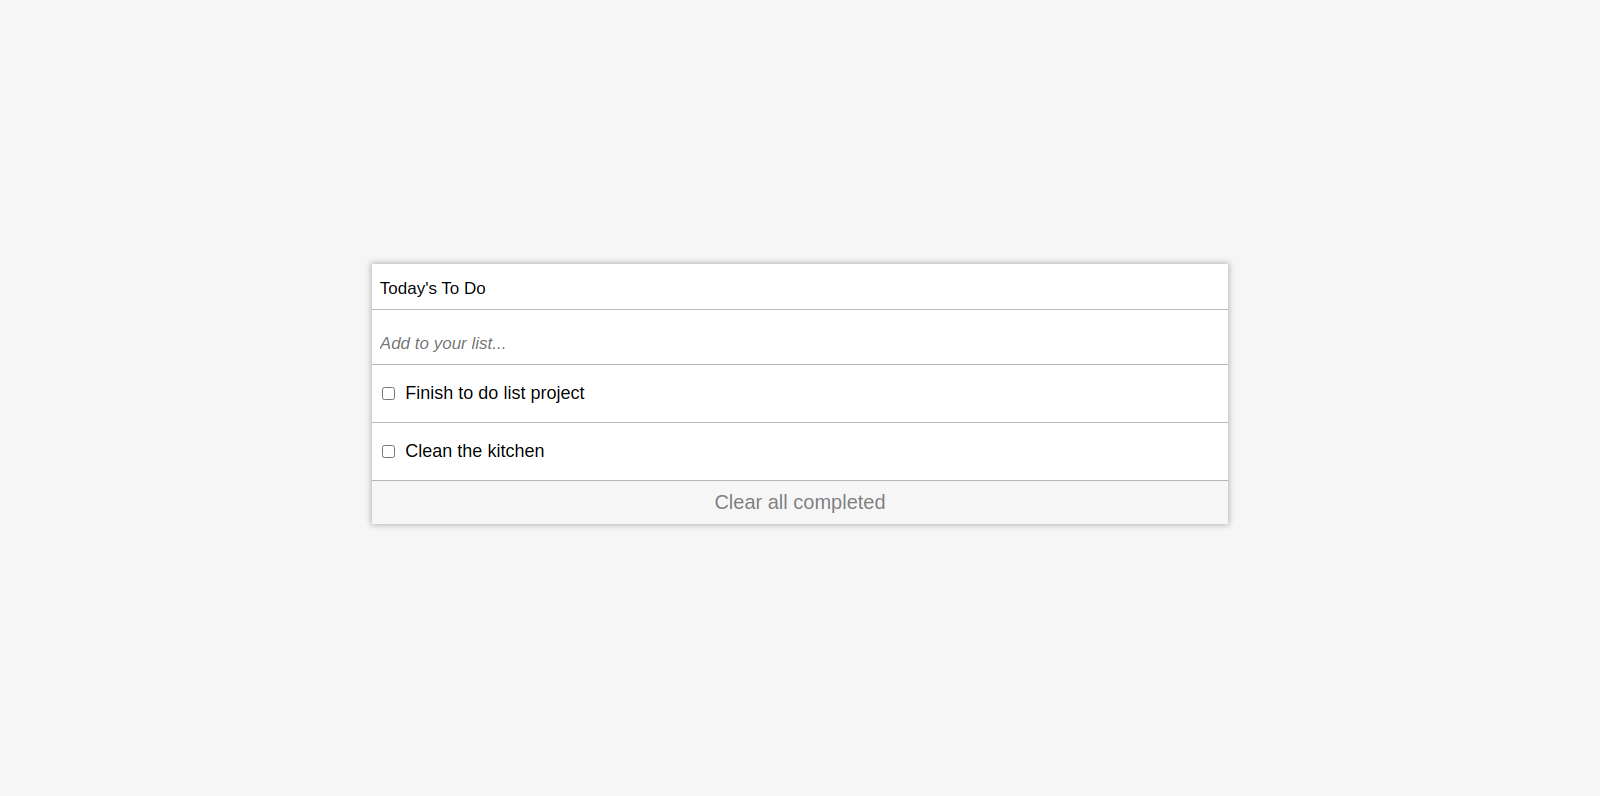
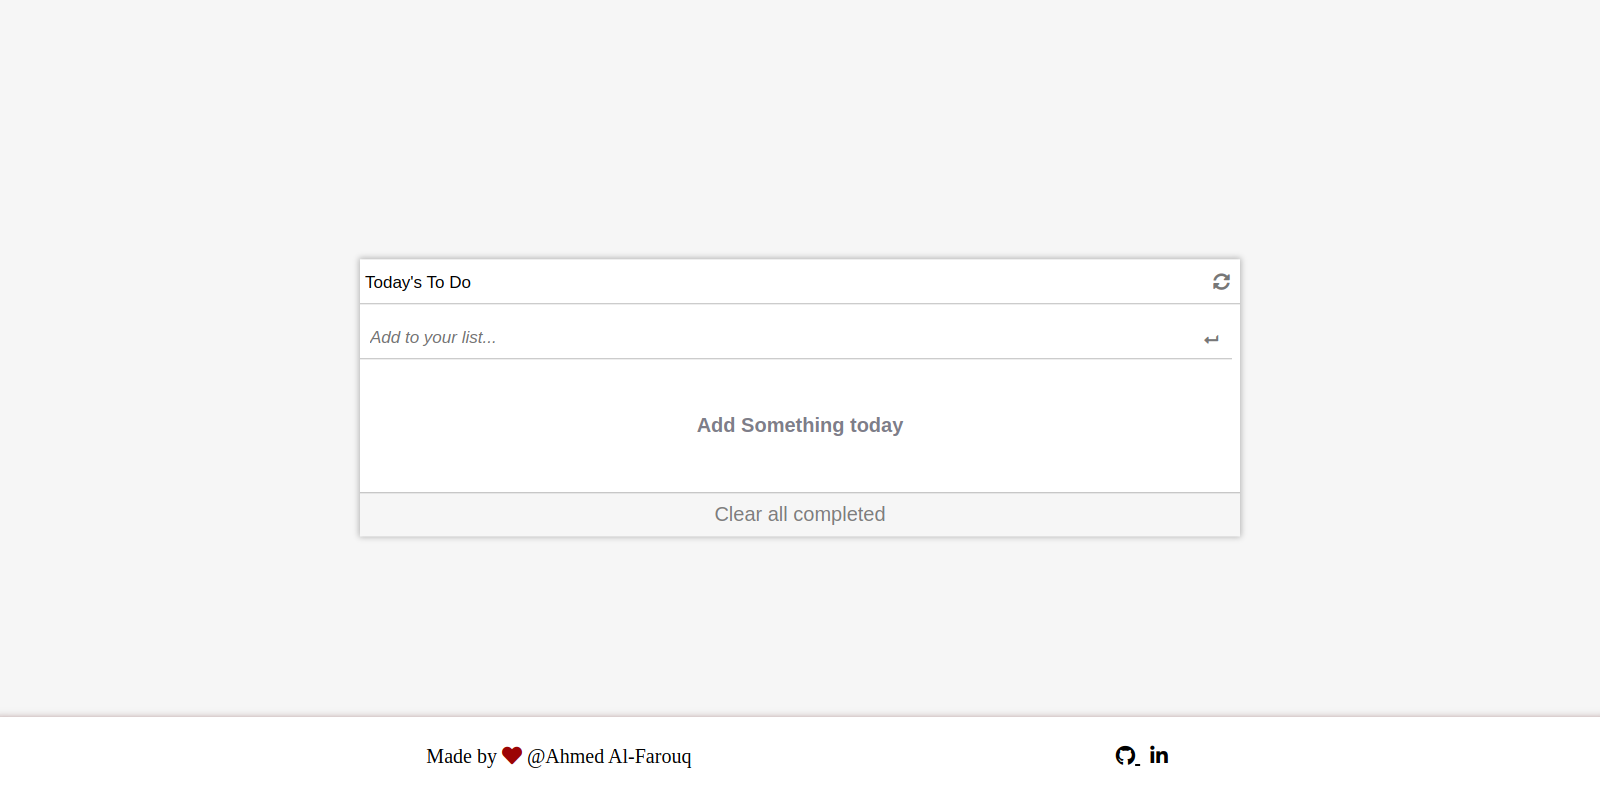
Update README file

diff --git a/dist/main.js b/dist/main.js
@@ -1,1 +1,1 @@
-(()=>{"use strict";var n={426:(n,t,e)=>{e.d(t,{Z:()=>a});var i=e(81),o=e.n(i),r=e(645),s=e.n(r)()(o());s.push([n.id,"/* GLobal Rules */\n.to-do-list .line-through {\n  text-decoration: line-through;\n  color: rgba(0, 0, 0, 0.596);\n}\n\n.to-do-list .d-none {\n  display: none;\n}\n\nbody {\n  background-color: #f6f6f6;\n  display: flex;\n  justify-content: center;\n  align-items: center;\n  height: 95vh;\n}\n\n.editing-state {\n  background-color: #afafaf4d;\n}\n\n/* Start List */\n.to-do-list {\n  background-color: white;\n  padding: 0;\n  width: 55%;\n  display: flex;\n  flex-direction: column;\n  align-items: center;\n  overflow-x: hidden;\n  box-shadow: 0 0 6px 1px #00000045;\n}\n\n.to-do-list .title {\n  display: flex;\n  font-weight: 200;\n  font-size: 17px;\n  font-family: 'Gill Sans', 'Gill Sans MT', Calibri, 'Trebuchet MS', sans-serif;\n  width: 100%;\n  padding: 0 0 10px 10px;\n  border-bottom: 1px solid #00000045;\n}\n\n.to-do-list .title i.fa-sync-alt {\n  margin: 0 15px 0 auto;\n  color: #0000008a;\n}\n\n.to-do-list .input-container {\n  width: 100%;\n  display: flex;\n  align-items: center;\n  flex-wrap: wrap;\n}\n\n.to-do-list .input-container .task-input {\n  width: 98%;\n  border: none;\n  outline: none;\n  font-size: 17px;\n  background-color: transparent;\n  padding: 10px 0 10px 10px;\n  border-bottom: 1px solid #00000045;\n}\n\n.to-do-list .input-container .task-input::placeholder {\n  font-style: italic;\n}\n\n.to-do-list .input-container i.fa-level-down-alt {\n  font-size: 14px;\n  margin: 0 15px 0 -25px;\n  color: #0000008a;\n  transform: rotate(90deg);\n}\n\n.to-do-list .input-container .alert {\n  color: rgb(124, 7, 7);\n  font-size: 18px;\n  width: 100%;\n  margin-left: 10px;\n}\n\n.to-do-list .list {\n  margin: 0;\n  padding: 0;\n  width: 100%;\n}\n\n.to-do-list .list .empty-list {\n  text-align: center;\n  font-family: sans-serif;\n  color: #7e7e89;\n  height: 100px;\n  display: flex;\n  align-items: center;\n  justify-content: center;\n  font-size: 20px;\n}\n\n.to-do-list .list .list_item {\n  display: flex;\n  align-items: center;\n  width: 100%;\n  font-size: 18px;\n  border-bottom: 1px solid #00000045;\n  transition: 0.5s;\n}\n\n.to-do-list .list .list_item input[type=\"checkbox\"] {\n  margin: 0 10px;\n  cursor: pointer;\n}\n\n.to-do-list .list .list_item input[type=\"text\"] {\n  width: 90%;\n  border: none;\n  background-color: transparent;\n  padding: 15px;\n  font-size: 18px;\n  outline: none;\n}\n\n.to-do-list .list .list_item input[type=\"text\"]::placeholder {\n  color: black;\n  font-size: 18px;\n}\n\n.to-do-list .list .list_item i#move-icon {\n  font-size: 15px;\n  margin: 0 15px 0 5px;\n  color: #0000008a;\n  cursor: move;\n}\n\n.to-do-list .list .list_item i#trash-icon {\n  font-size: 18px;\n  margin: 0 15px 0 5px;\n  color: #0000008a;\n  cursor: pointer;\n}\n\n.to-do-list .list .list_item:last-of-type {\n  border: none;\n}\n\n.to-do-list .btn {\n  width: 100%;\n  border: none;\n  outline: none;\n  background-color: #f6f6f6;\n  padding: 10px;\n  cursor: pointer;\n  font-size: 20px;\n  color: #7e7e7e;\n  border-top: 1px solid #00000045;\n}\n\n@media screen and (max-width: 576px) {\n  .to-do-list {\n    width: 96%;\n  }\n\n  .to-do-list .input-container .task-input {\n    width: 94%;\n  }\n}\n\n@media screen and (min-width: 576px) and (max-width: 991px) {\n  .to-do-list {\n    width: 80%;\n  }\n\n  .to-do-list .input-container .task-input {\n    width: 97%;\n  }\n}\n",""]);const a=s},645:n=>{n.exports=function(n){var t=[];return t.toString=function(){return this.map((function(t){var e="",i=void 0!==t[5];return t[4]&&(e+="@supports (".concat(t[4],") {")),t[2]&&(e+="@media ".concat(t[2]," {")),i&&(e+="@layer".concat(t[5].length>0?" ".concat(t[5]):""," {")),e+=n(t),i&&(e+="}"),t[2]&&(e+="}"),t[4]&&(e+="}"),e})).join("")},t.i=function(n,e,i,o,r){"string"==typeof n&&(n=[[null,n,void 0]]);var s={};if(i)for(var a=0;a<this.length;a++){var l=this[a][0];null!=l&&(s[l]=!0)}for(var d=0;d<n.length;d++){var c=[].concat(n[d]);i&&s[c[0]]||(void 0!==r&&(void 0===c[5]||(c[1]="@layer".concat(c[5].length>0?" ".concat(c[5]):""," {").concat(c[1],"}")),c[5]=r),e&&(c[2]?(c[1]="@media ".concat(c[2]," {").concat(c[1],"}"),c[2]=e):c[2]=e),o&&(c[4]?(c[1]="@supports (".concat(c[4],") {").concat(c[1],"}"),c[4]=o):c[4]="".concat(o)),t.push(c))}},t}},81:n=>{n.exports=function(n){return n[1]}},379:n=>{var t=[];function e(n){for(var e=-1,i=0;i<t.length;i++)if(t[i].identifier===n){e=i;break}return e}function i(n,i){for(var r={},s=[],a=0;a<n.length;a++){var l=n[a],d=i.base?l[0]+i.base:l[0],c=r[d]||0,p="".concat(d," ").concat(c);r[d]=c+1;var u=e(p),f={css:l[1],media:l[2],sourceMap:l[3]};-1!==u?(t[u].references++,t[u].updater(f)):t.push({identifier:p,updater:o(f,i),references:1}),s.push(p)}return s}function o(n,t){var e=t.domAPI(t);return e.update(n),function(t){if(t){if(t.css===n.css&&t.media===n.media&&t.sourceMap===n.sourceMap)return;e.update(n=t)}else e.remove()}}n.exports=function(n,o){var r=i(n=n||[],o=o||{});return function(n){n=n||[];for(var s=0;s<r.length;s++){var a=e(r[s]);t[a].references--}for(var l=i(n,o),d=0;d<r.length;d++){var c=e(r[d]);0===t[c].references&&(t[c].updater(),t.splice(c,1))}r=l}}},569:n=>{var t={};n.exports=function(n,e){var i=function(n){if(void 0===t[n]){var e=document.querySelector(n);if(window.HTMLIFrameElement&&e instanceof window.HTMLIFrameElement)try{e=e.contentDocument.head}catch(n){e=null}t[n]=e}return t[n]}(n);if(!i)throw new Error("Couldn't find a style target. This probably means that the value for the 'insert' parameter is invalid.");i.appendChild(e)}},216:n=>{n.exports=function(n){var t=document.createElement("style");return n.setAttributes(t,n.attributes),n.insert(t),t}},565:(n,t,e)=>{n.exports=function(n){var t=e.nc;t&&n.setAttribute("nonce",t)}},795:n=>{n.exports=function(n){var t=n.insertStyleElement(n);return{update:function(e){!function(n,t,e){var i=e.css,o=e.media,r=e.sourceMap;o?n.setAttribute("media",o):n.removeAttribute("media"),r&&"undefined"!=typeof btoa&&(i+="\n/*# sourceMappingURL=data:application/json;base64,".concat(btoa(unescape(encodeURIComponent(JSON.stringify(r))))," */")),t.styleTagTransform(i,n)}(t,n,e)},remove:function(){!function(n){if(null===n.parentNode)return!1;n.parentNode.removeChild(n)}(t)}}}},589:n=>{n.exports=function(n,t){if(t.styleSheet)t.styleSheet.cssText=n;else{for(;t.firstChild;)t.removeChild(t.firstChild);t.appendChild(document.createTextNode(n))}}}},t={};function e(i){var o=t[i];if(void 0!==o)return o.exports;var r=t[i]={id:i,exports:{}};return n[i](r,r.exports,e),r.exports}e.n=n=>{var t=n&&n.__esModule?()=>n.default:()=>n;return e.d(t,{a:t}),t},e.d=(n,t)=>{for(var i in t)e.o(t,i)&&!e.o(n,i)&&Object.defineProperty(n,i,{enumerable:!0,get:t[i]})},e.o=(n,t)=>Object.prototype.hasOwnProperty.call(n,t),(()=>{var n=e(379),t=e.n(n),i=e(795),o=e.n(i),r=e(569),s=e.n(r),a=e(565),l=e.n(a),d=e(216),c=e.n(d),p=e(589),u=e.n(p),f=e(426),m={};m.styleTagTransform=u(),m.setAttributes=l(),m.insert=s().bind(null,"head"),m.domAPI=o(),m.insertStyleElement=c(),t()(f.Z,m),f.Z&&f.Z.locals&&f.Z.locals;const h=document.getElementById("list");(new class{constructor(){const n=JSON.parse(localStorage.getItem("newList"));this.listObj=n||[]}createItems(n){const t=document.querySelector(".input-container"),e=document.getElementById("clear-selected");if(t.addEventListener("submit",(n=>(n.preventDefault(),(n=>{const t=document.querySelector(".input-container .task-input"),e=document.querySelector(".input-container .alert");return""===t.value?e.textContent="Please, Type something to add":(e.textContent="",n.push({description:t.value,completed:!1,index:n.length+1}),localStorage.setItem("newList",JSON.stringify(n))),window.location.reload()})(this.listObj)))),e.addEventListener("click",(()=>(n=>{const t=this.listObj.filter((n=>!1===n.completed)).map(((n,t)=>(n.index=t+1,n)));return localStorage.setItem("newList",JSON.stringify(t)),window.location.reload()})())),this.listObj.length)this.listObj.forEach((t=>{const e=document.createElement("li");e.id=t.index,e.className="list_item";const i=document.createElement("input");i.type="checkbox";const o=document.createElement("input");return o.className="desc",o.type="text",e.append(i,o),e.innerHTML+='\n        <i class="fas fa-ellipsis-v" id="move-icon"></i>\n        <i class="fas fa-trash d-none" id="trash-icon"></i>\n        ',t.completed&&(e.childNodes[0].checked="true",e.childNodes[1].classList.add("line-through")),e.childNodes[1].value=t.description,e.childNodes[0].addEventListener("change",(()=>((n,t,e)=>{const i=document.getElementsByClassName("desc");return n.checked?e[t-1].completed=!0:e[t-1].completed=!1,i[t-1].classList.contains("line-through")?i[t-1].classList.remove("line-through"):i[t-1].classList.add("line-through"),localStorage.setItem("newList",JSON.stringify(e))})(e.childNodes[0],t.index,this.listObj))),e.childNodes[1].addEventListener("click",(()=>{e.classList.add("editing-state"),e.childNodes[3].classList.add("d-none"),e.childNodes[5].classList.remove("d-none")})),e.childNodes[1].addEventListener("blur",(()=>{e.classList.remove("editing-state"),setTimeout((()=>{e.childNodes[3].classList.remove("d-none"),e.childNodes[5].classList.add("d-none")}),400)})),e.childNodes[1].addEventListener("input",(()=>((n,t,e)=>(e[t-1].description=n.value,localStorage.setItem("newList",JSON.stringify(e))))(e.childNodes[1],t.index,this.listObj))),e.childNodes[5].addEventListener("click",(()=>((n,t)=>{const e=n.filter((n=>n.index!==t)).map(((n,t)=>(n.index=t+1,n)));return localStorage.setItem("newList",JSON.stringify(e)),window.location.reload()})(this.listObj,t.index))),n.append(e)}));else{const t=document.createElement("h2");t.className="empty-list",t.textContent="Add Something today",n.append(t)}}}).createItems(h)})()})();
+(()=>{"use strict";var n={426:(n,t,e)=>{e.d(t,{Z:()=>a});var o=e(81),i=e.n(o),r=e(645),s=e.n(r)()(i());s.push([n.id,"/* GLobal Rules */\n.to-do-list .line-through {\n  text-decoration: line-through;\n  color: rgba(0, 0, 0, 0.596);\n}\n\n.to-do-list .d-none {\n  display: none;\n}\n\nhtml {\n  overflow: hidden;\n}\n\nbody {\n  background-color: #f6f6f6;\n  position: relative;\n  height: 100vh;\n  overflow: hidden;\n  margin: 0;\n}\n\n.editing-state {\n  background-color: #afafaf4d;\n}\n\n/* Start List */\n.to-do-list {\n  background-color: white;\n  padding: 0;\n  width: 55%;\n  display: flex;\n  flex-direction: column;\n  align-items: center;\n  overflow-x: hidden;\n  box-shadow: 0 0 6px 1px #00000045;\n  transform: translate(-50%, -50%);\n  position: absolute;\n  top: 50%;\n  left: 50%;\n}\n\n.to-do-list .title {\n  display: flex;\n  font-weight: 200;\n  font-size: 17px;\n  font-family: 'Gill Sans', 'Gill Sans MT', Calibri, 'Trebuchet MS', sans-serif;\n  width: 100%;\n  padding: 0 0 10px 10px;\n  border-bottom: 1px solid #00000045;\n}\n\n.to-do-list .title i.fa-sync-alt {\n  margin: 0 15px 0 auto;\n  color: #0000008a;\n}\n\n.to-do-list .input-container {\n  width: 100%;\n  display: flex;\n  align-items: center;\n  flex-wrap: wrap;\n}\n\n.to-do-list .input-container .task-input {\n  width: 98%;\n  border: none;\n  outline: none;\n  font-size: 17px;\n  background-color: transparent;\n  padding: 10px 0 10px 10px;\n  border-bottom: 1px solid #00000045;\n}\n\n.to-do-list .input-container .task-input::placeholder {\n  font-style: italic;\n}\n\n.to-do-list .input-container i.fa-level-down-alt {\n  font-size: 14px;\n  margin: 0 15px 0 -25px;\n  color: #0000008a;\n  transform: rotate(90deg);\n}\n\n.to-do-list .input-container .alert {\n  color: rgb(124, 7, 7);\n  font-size: 18px;\n  width: 100%;\n  margin-left: 10px;\n}\n\n.to-do-list .list {\n  margin: 0;\n  padding: 0;\n  width: 100%;\n}\n\n.to-do-list .list .empty-list {\n  text-align: center;\n  font-family: sans-serif;\n  color: #7e7e89;\n  height: 100px;\n  display: flex;\n  align-items: center;\n  justify-content: center;\n  font-size: 20px;\n}\n\n.to-do-list .list .list_item {\n  display: flex;\n  align-items: center;\n  width: 100%;\n  font-size: 18px;\n  border-bottom: 1px solid #00000045;\n  transition: 0.5s;\n}\n\n.to-do-list .list .list_item input[type=\"checkbox\"] {\n  margin: 0 10px;\n  cursor: pointer;\n}\n\n.to-do-list .list .list_item input[type=\"text\"] {\n  width: 90%;\n  border: none;\n  background-color: transparent;\n  padding: 15px;\n  font-size: 18px;\n  outline: none;\n}\n\n.to-do-list .list .list_item input[type=\"text\"]::placeholder {\n  color: black;\n  font-size: 18px;\n}\n\n.to-do-list .list .list_item i#move-icon {\n  font-size: 15px;\n  margin: 0 15px 0 5px;\n  color: #0000008a;\n  cursor: move;\n}\n\n.to-do-list .list .list_item i#trash-icon {\n  font-size: 18px;\n  margin: 0 15px 0 5px;\n  color: #0000008a;\n  cursor: pointer;\n}\n\n.to-do-list .list .list_item:last-of-type {\n  border: none;\n}\n\n.to-do-list .btn {\n  width: 100%;\n  border: none;\n  outline: none;\n  background-color: #f6f6f6;\n  padding: 10px;\n  cursor: pointer;\n  font-size: 20px;\n  color: #7e7e7e;\n  border-top: 1px solid #00000045;\n}\n\n@media screen and (max-width: 576px) {\n  .to-do-list {\n    width: 96%;\n  }\n\n  .to-do-list .input-container .task-input {\n    width: 94%;\n  }\n}\n\n@media screen and (min-width: 576px) and (max-width: 991px) {\n  .to-do-list {\n    width: 80%;\n  }\n\n  .to-do-list .input-container .task-input {\n    width: 97%;\n  }\n}\n\n/* Start Footer */\n.footer {\n  width: 100%;\n  background-color: #fff;\n  position: absolute;\n  bottom: 0;\n  right: -10px;\n  padding: 8px;\n  text-align: center;\n  font-size: 20px;\n  display: flex;\n  flex-wrap: wrap;\n  justify-content: space-evenly;\n  align-items: center;\n  box-shadow: 0 4px 9px 1px #480404ab;\n}\n\n.footer p i.fa {\n  color: rgb(155, 4, 4);\n}\n\n.footer div.contacts a {\n  margin-right: 10px;\n  font-size: 20px;\n  color: #000;\n}\n",""]);const a=s},645:n=>{n.exports=function(n){var t=[];return t.toString=function(){return this.map((function(t){var e="",o=void 0!==t[5];return t[4]&&(e+="@supports (".concat(t[4],") {")),t[2]&&(e+="@media ".concat(t[2]," {")),o&&(e+="@layer".concat(t[5].length>0?" ".concat(t[5]):""," {")),e+=n(t),o&&(e+="}"),t[2]&&(e+="}"),t[4]&&(e+="}"),e})).join("")},t.i=function(n,e,o,i,r){"string"==typeof n&&(n=[[null,n,void 0]]);var s={};if(o)for(var a=0;a<this.length;a++){var l=this[a][0];null!=l&&(s[l]=!0)}for(var d=0;d<n.length;d++){var c=[].concat(n[d]);o&&s[c[0]]||(void 0!==r&&(void 0===c[5]||(c[1]="@layer".concat(c[5].length>0?" ".concat(c[5]):""," {").concat(c[1],"}")),c[5]=r),e&&(c[2]?(c[1]="@media ".concat(c[2]," {").concat(c[1],"}"),c[2]=e):c[2]=e),i&&(c[4]?(c[1]="@supports (".concat(c[4],") {").concat(c[1],"}"),c[4]=i):c[4]="".concat(i)),t.push(c))}},t}},81:n=>{n.exports=function(n){return n[1]}},379:n=>{var t=[];function e(n){for(var e=-1,o=0;o<t.length;o++)if(t[o].identifier===n){e=o;break}return e}function o(n,o){for(var r={},s=[],a=0;a<n.length;a++){var l=n[a],d=o.base?l[0]+o.base:l[0],c=r[d]||0,p="".concat(d," ").concat(c);r[d]=c+1;var u=e(p),f={css:l[1],media:l[2],sourceMap:l[3]};-1!==u?(t[u].references++,t[u].updater(f)):t.push({identifier:p,updater:i(f,o),references:1}),s.push(p)}return s}function i(n,t){var e=t.domAPI(t);return e.update(n),function(t){if(t){if(t.css===n.css&&t.media===n.media&&t.sourceMap===n.sourceMap)return;e.update(n=t)}else e.remove()}}n.exports=function(n,i){var r=o(n=n||[],i=i||{});return function(n){n=n||[];for(var s=0;s<r.length;s++){var a=e(r[s]);t[a].references--}for(var l=o(n,i),d=0;d<r.length;d++){var c=e(r[d]);0===t[c].references&&(t[c].updater(),t.splice(c,1))}r=l}}},569:n=>{var t={};n.exports=function(n,e){var o=function(n){if(void 0===t[n]){var e=document.querySelector(n);if(window.HTMLIFrameElement&&e instanceof window.HTMLIFrameElement)try{e=e.contentDocument.head}catch(n){e=null}t[n]=e}return t[n]}(n);if(!o)throw new Error("Couldn't find a style target. This probably means that the value for the 'insert' parameter is invalid.");o.appendChild(e)}},216:n=>{n.exports=function(n){var t=document.createElement("style");return n.setAttributes(t,n.attributes),n.insert(t),t}},565:(n,t,e)=>{n.exports=function(n){var t=e.nc;t&&n.setAttribute("nonce",t)}},795:n=>{n.exports=function(n){var t=n.insertStyleElement(n);return{update:function(e){!function(n,t,e){var o=e.css,i=e.media,r=e.sourceMap;i?n.setAttribute("media",i):n.removeAttribute("media"),r&&"undefined"!=typeof btoa&&(o+="\n/*# sourceMappingURL=data:application/json;base64,".concat(btoa(unescape(encodeURIComponent(JSON.stringify(r))))," */")),t.styleTagTransform(o,n)}(t,n,e)},remove:function(){!function(n){if(null===n.parentNode)return!1;n.parentNode.removeChild(n)}(t)}}}},589:n=>{n.exports=function(n,t){if(t.styleSheet)t.styleSheet.cssText=n;else{for(;t.firstChild;)t.removeChild(t.firstChild);t.appendChild(document.createTextNode(n))}}}},t={};function e(o){var i=t[o];if(void 0!==i)return i.exports;var r=t[o]={id:o,exports:{}};return n[o](r,r.exports,e),r.exports}e.n=n=>{var t=n&&n.__esModule?()=>n.default:()=>n;return e.d(t,{a:t}),t},e.d=(n,t)=>{for(var o in t)e.o(t,o)&&!e.o(n,o)&&Object.defineProperty(n,o,{enumerable:!0,get:t[o]})},e.o=(n,t)=>Object.prototype.hasOwnProperty.call(n,t),(()=>{var n=e(379),t=e.n(n),o=e(795),i=e.n(o),r=e(569),s=e.n(r),a=e(565),l=e.n(a),d=e(216),c=e.n(d),p=e(589),u=e.n(p),f=e(426),m={};m.styleTagTransform=u(),m.setAttributes=l(),m.insert=s().bind(null,"head"),m.domAPI=i(),m.insertStyleElement=c(),t()(f.Z,m),f.Z&&f.Z.locals&&f.Z.locals;const h=document.getElementById("list");(new class{constructor(){const n=JSON.parse(localStorage.getItem("newList"));this.listObj=n||[]}createItems(n){const t=document.querySelector(".input-container"),e=document.getElementById("clear-selected");if(t.addEventListener("submit",(n=>(n.preventDefault(),(n=>{const t=document.querySelector(".input-container .task-input"),e=document.querySelector(".input-container .alert");return""===t.value?e.textContent="Please, Type something to add":(e.textContent="",n.push({description:t.value,completed:!1,index:n.length+1}),localStorage.setItem("newList",JSON.stringify(n))),window.location.reload()})(this.listObj)))),e.addEventListener("click",(()=>(n=>{const t=this.listObj.filter((n=>!1===n.completed)).map(((n,t)=>(n.index=t+1,n)));return localStorage.setItem("newList",JSON.stringify(t)),window.location.reload()})())),this.listObj.length)this.listObj.forEach((t=>{const e=document.createElement("li");e.id=t.index,e.className="list_item";const o=document.createElement("input");o.type="checkbox";const i=document.createElement("input");return i.className="desc",i.type="text",e.append(o,i),e.innerHTML+='\n        <i class="fas fa-ellipsis-v" id="move-icon"></i>\n        <i class="fas fa-trash d-none" id="trash-icon"></i>\n        ',t.completed&&(e.childNodes[0].checked="true",e.childNodes[1].classList.add("line-through")),e.childNodes[1].value=t.description,e.childNodes[0].addEventListener("change",(()=>((n,t,e)=>{const o=document.getElementsByClassName("desc");return n.checked?e[t-1].completed=!0:e[t-1].completed=!1,o[t-1].classList.contains("line-through")?o[t-1].classList.remove("line-through"):o[t-1].classList.add("line-through"),localStorage.setItem("newList",JSON.stringify(e))})(e.childNodes[0],t.index,this.listObj))),e.childNodes[1].addEventListener("click",(()=>{e.classList.add("editing-state"),e.childNodes[3].classList.add("d-none"),e.childNodes[5].classList.remove("d-none")})),e.childNodes[1].addEventListener("blur",(()=>{e.classList.remove("editing-state"),setTimeout((()=>{e.childNodes[3].classList.remove("d-none"),e.childNodes[5].classList.add("d-none")}),400)})),e.childNodes[1].addEventListener("input",(()=>((n,t,e)=>(e[t-1].description=n.value,localStorage.setItem("newList",JSON.stringify(e))))(e.childNodes[1],t.index,this.listObj))),e.childNodes[5].addEventListener("click",(()=>((n,t)=>{const e=n.filter((n=>n.index!==t)).map(((n,t)=>(n.index=t+1,n)));return localStorage.setItem("newList",JSON.stringify(e)),window.location.reload()})(this.listObj,t.index))),n.append(e)}));else{const t=document.createElement("h2");t.className="empty-list",t.textContent="Add Something today",n.append(t)}}}).createItems(h)})()})();

diff --git a/src/style.css b/src/style.css
@@ -192,7 +192,7 @@ body {
   position: absolute;
   bottom: 0;
   right: -10px;
-  padding: 10px;
+  padding: 8px;
   text-align: center;
   font-size: 20px;
   display: flex;
